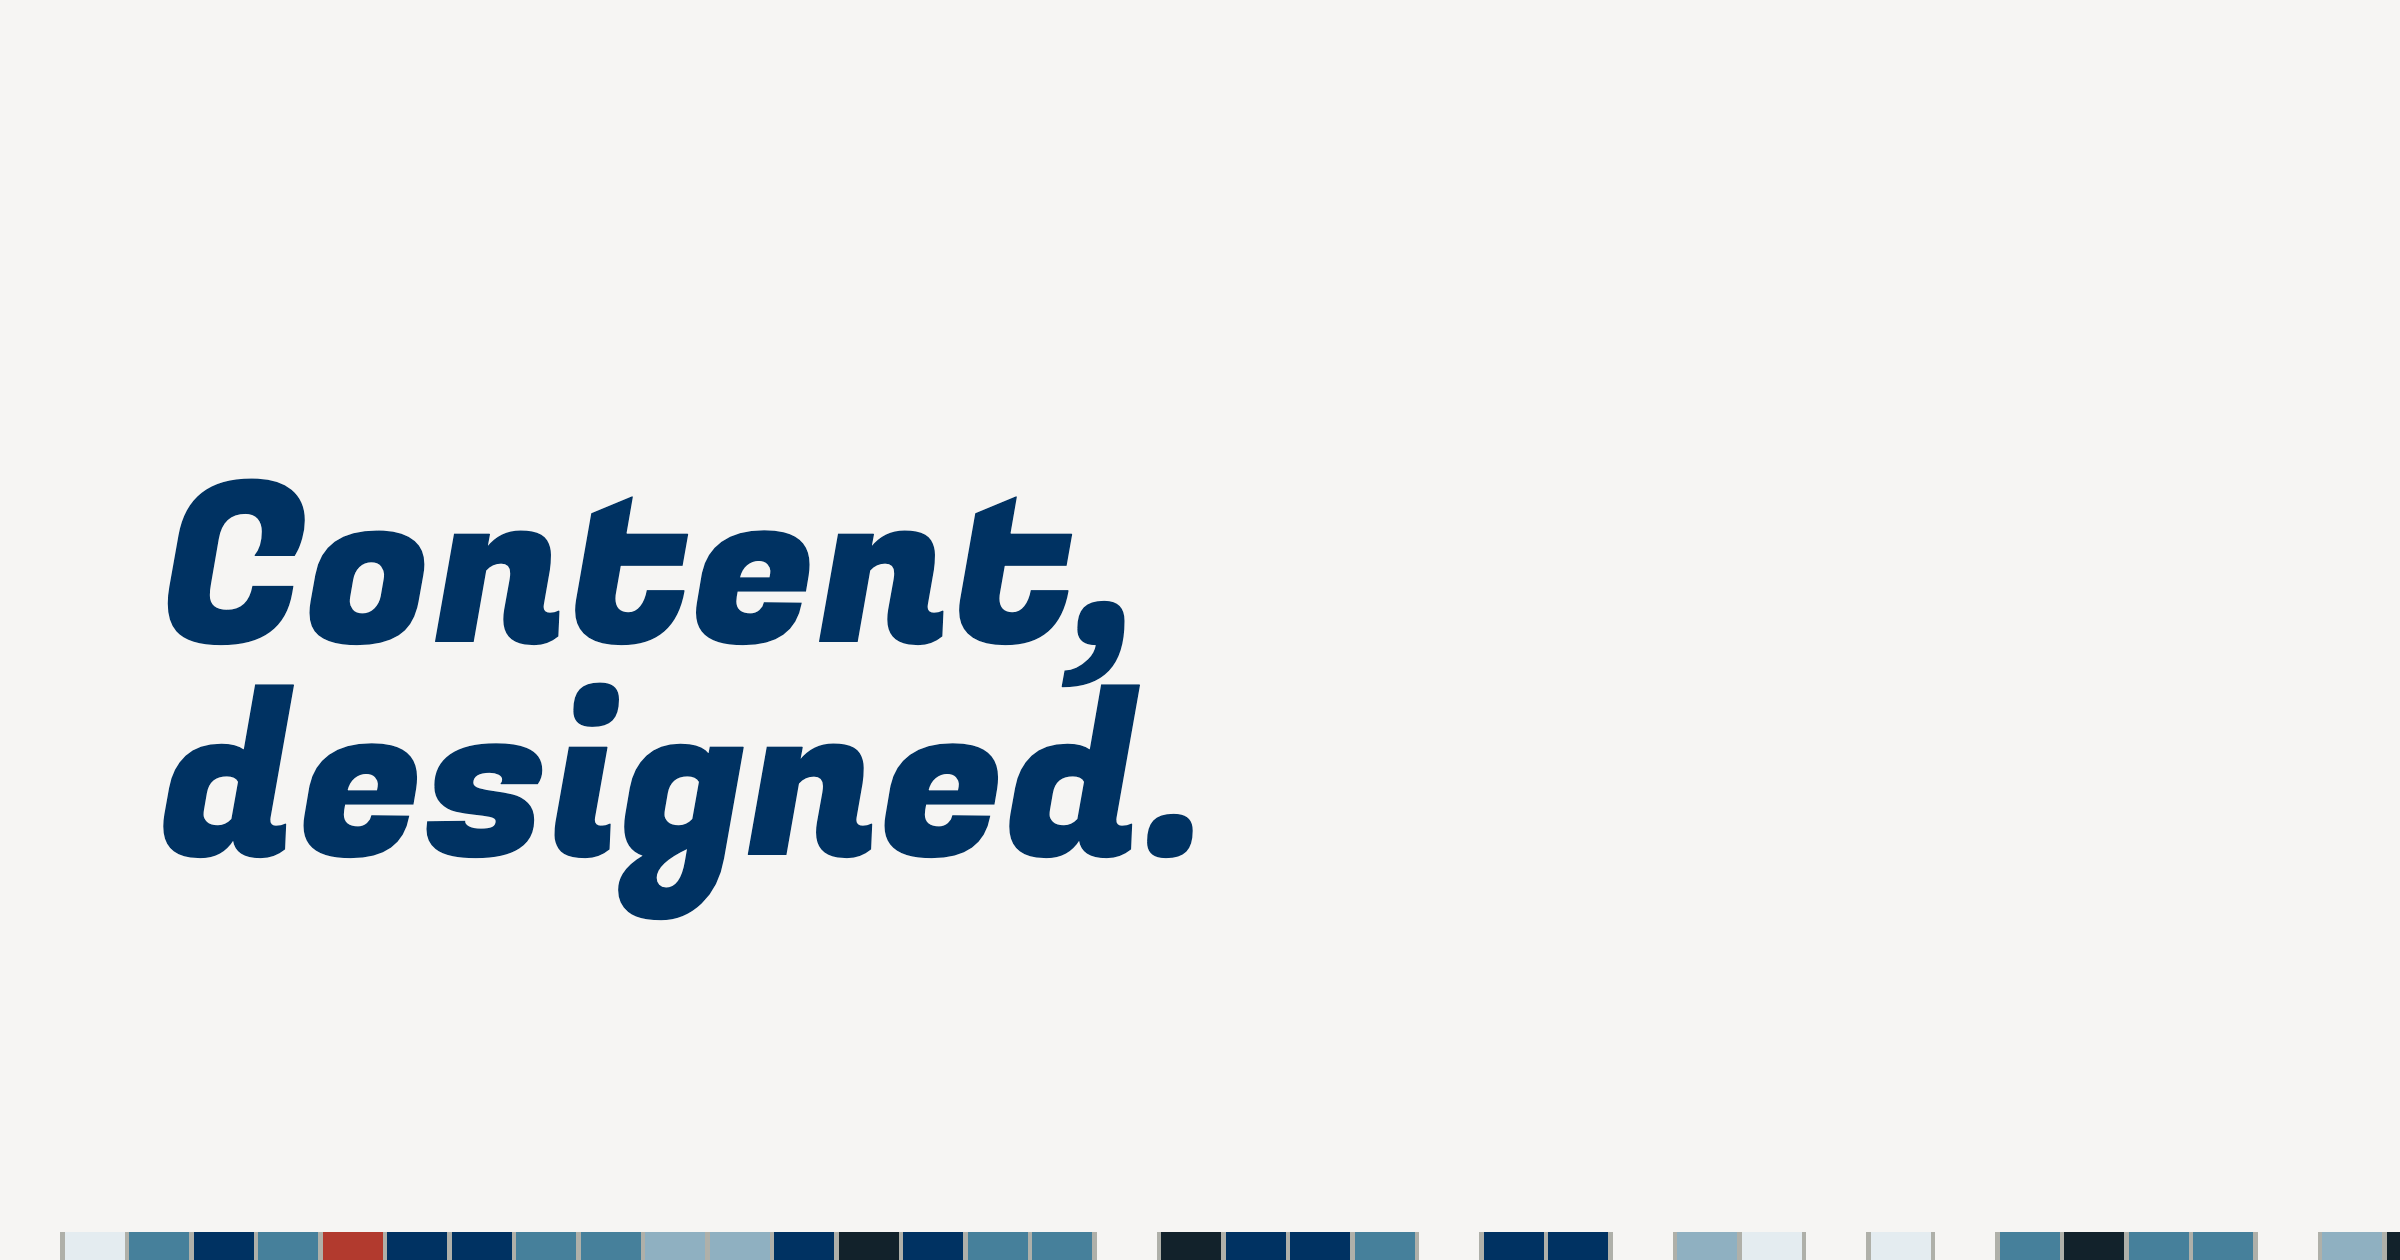
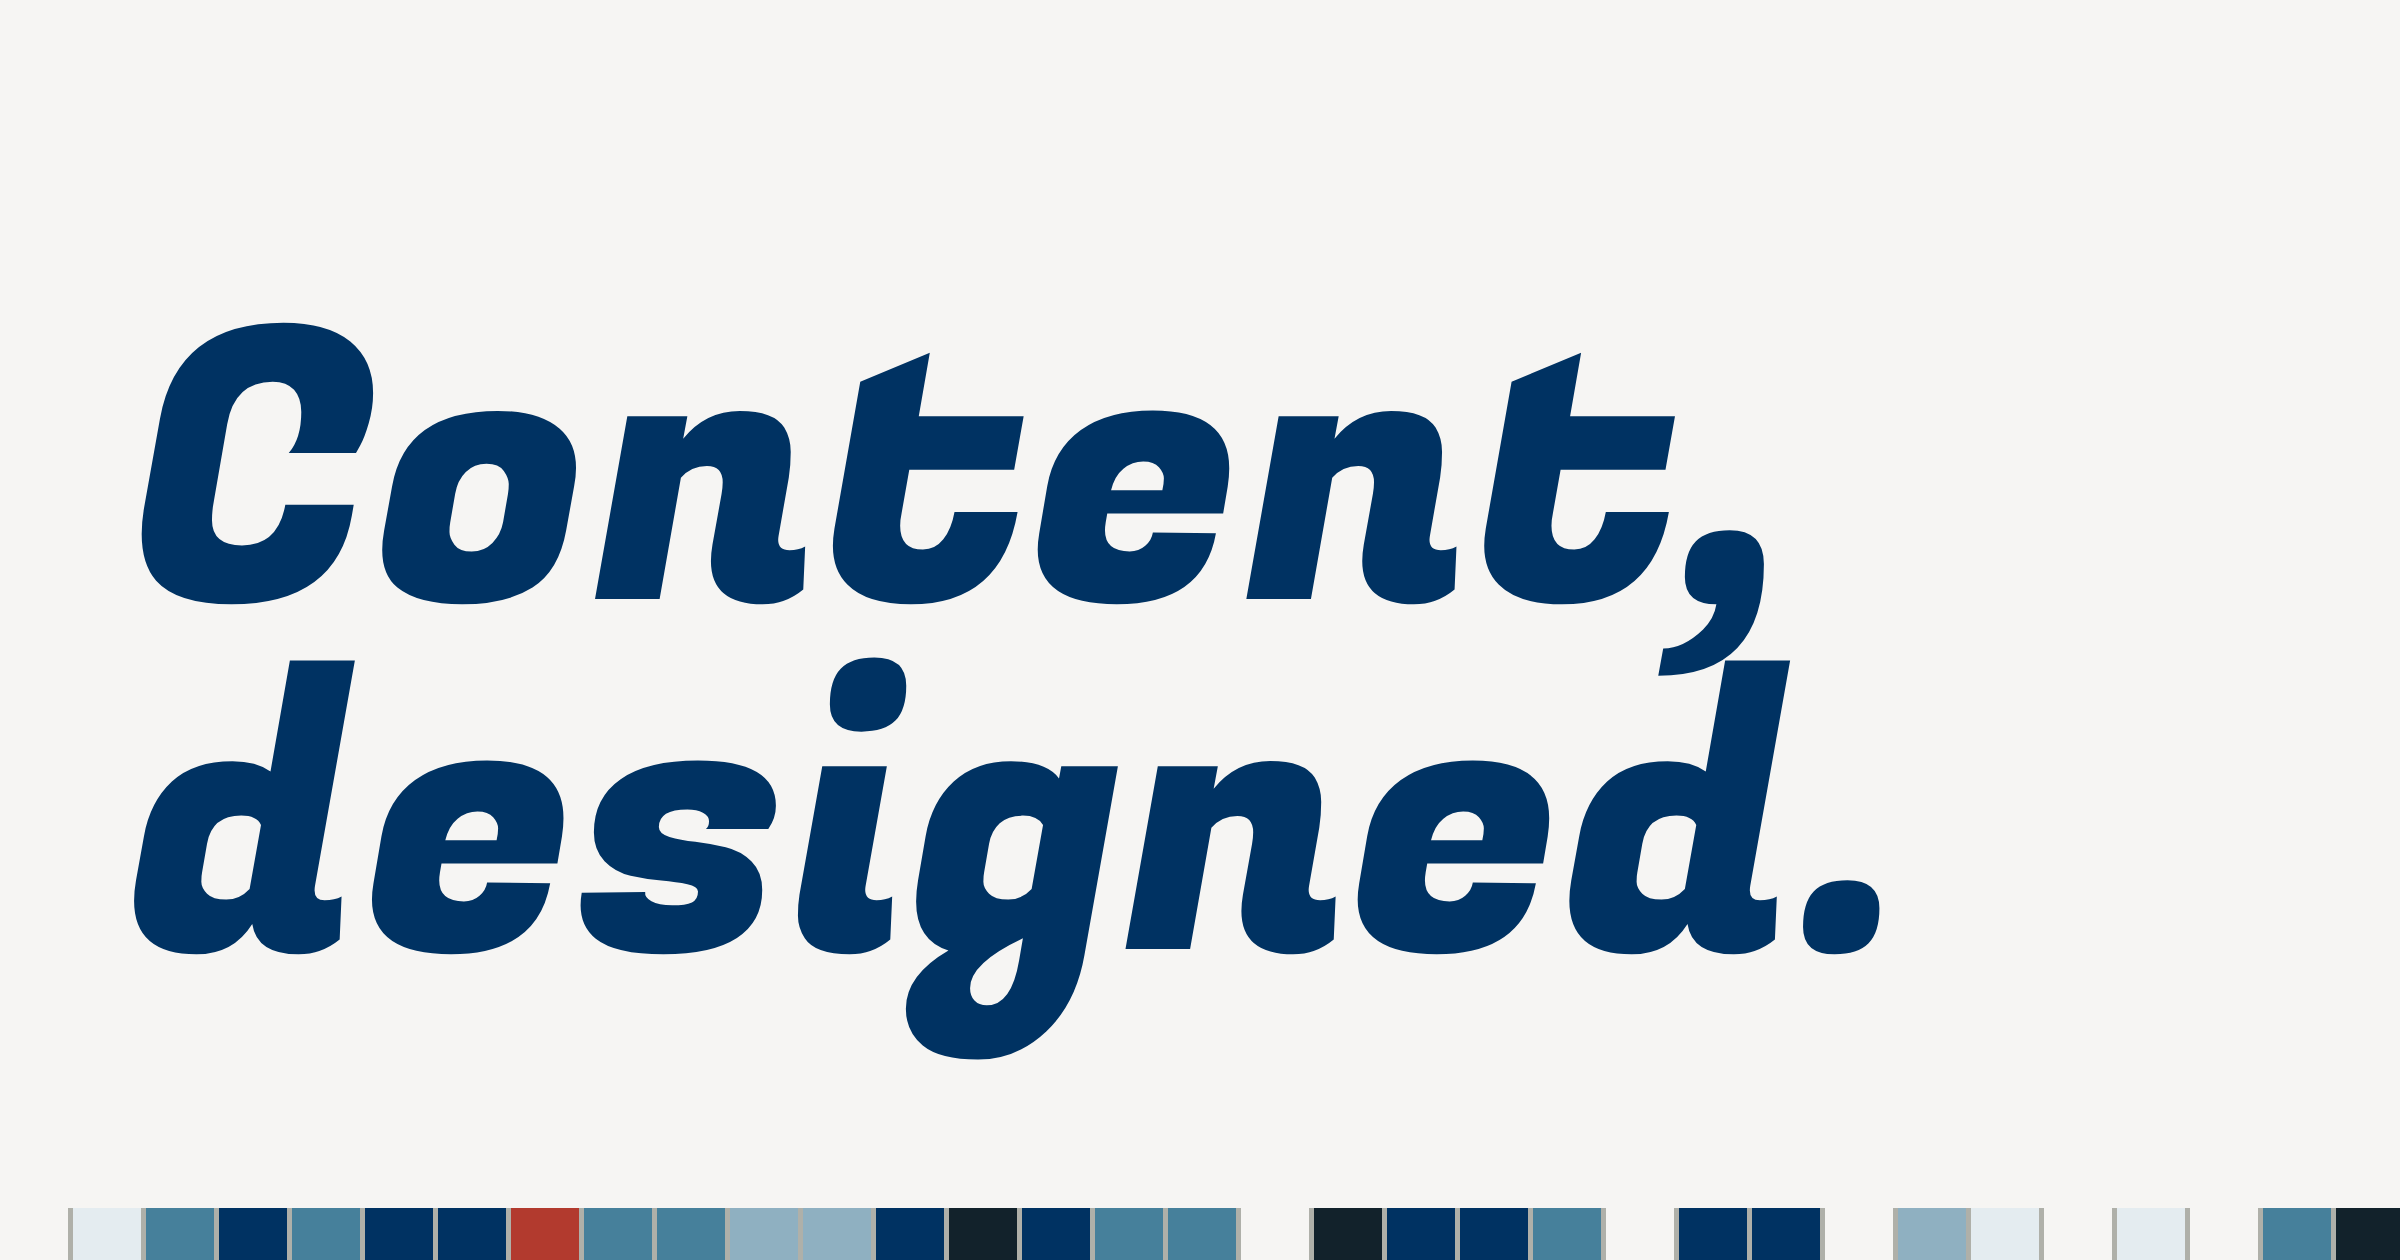
Draw the preview card for the size LinkedIn actually renders
The Post Inspector image URL gives the game away: LinkedIn re-hosts the
file on media.licdn.com and serves an articleshare-shrink_480 derivative.
The card is judged at roughly a fifth of the size it was drawn at, and no
amount of source resolution changes that.

At 480px the old card was a small headline stranded in empty space, with
the mosaic strip reduced to five pixels of noise. Headline goes from
112px to 190px in the 1200px layout so it fills the frame, padding comes
in from 80 to 64, and the strip goes from 14px to 26px so it survives the
downscale as a band rather than a smear.

Still written at 2x for Slack and WhatsApp, which fetch the original
rather than re-hosting it.

Changed region(s): [[0.0312, 0.2476, 0.7812, 0.8357], [0.0, 0.9595, 1.0, 1.0]]

diff --git a/brand/generate-og-image.js b/brand/generate-og-image.js
@@ -55,7 +55,7 @@ function makeRng(seed) {
   return () => { s = (s * 1103515245 + 12345) & 0x7fffffff; return s / 0x7fffffff; };
 }
 
-const TILE = 30, GAP = 2.25, STRIP_H = 14;      // scaled up from the site's 20/1.5/8
+const TILE = 34, GAP = 2.5, STRIP_H = 26;       // scaled up hard from the site's 20/1.5/8
 const rnd = makeRng(SEED);
 const count = Math.ceil(W / (TILE + GAP));
 const tiles = [];
@@ -74,17 +74,17 @@ const html = `<!DOCTYPE html><html><head><meta charset="utf-8">
   *{margin:0;padding:0;box-sizing:border-box;}
   body{width:${W}px;height:${H}px;background:#F6F5F3;font-family:'Work Sans',sans-serif;
        display:flex;flex-direction:column;overflow:hidden;}
-  .top{padding:64px 80px 0;}
+  .top{padding:52px 64px 0;}
   /* The headline block is optically centred in whatever is left between the
      wordmark and the strip, so the card never ends up bottom-heavy when a
      shorter title is passed in. */
-  .mid{flex:1;padding:0 80px;display:flex;flex-direction:column;justify-content:center;}
+  .mid{flex:1;padding:0 64px;display:flex;flex-direction:column;justify-content:center;}
   .wordmark{font-family:'Fugaz One',cursive;font-size:34px;line-height:1;letter-spacing:.005em;}
   .w1{color:#003262;} .w2{color:#46809B;}
-  h1{font-family:'Fugaz One',cursive;font-weight:400;font-size:112px;line-height:.95;
+  h1{font-family:'Fugaz One',cursive;font-weight:400;font-size:190px;line-height:.92;
      color:#003262;letter-spacing:.005em;}
-  p{font-family:'Work Sans',sans-serif;font-weight:600;font-size:32px;line-height:1.25;
-    color:#003262;margin-top:32px;max-width:900px;}
+  p{font-family:'Work Sans',sans-serif;font-weight:600;font-size:38px;line-height:1.25;
+    color:#003262;margin-top:34px;max-width:1000px;}
   .strip{display:flex;gap:${GAP}px;background:#AFB0A9;height:${STRIP_H}px;width:${W}px;overflow:hidden;}
 </style></head>
 <body>
